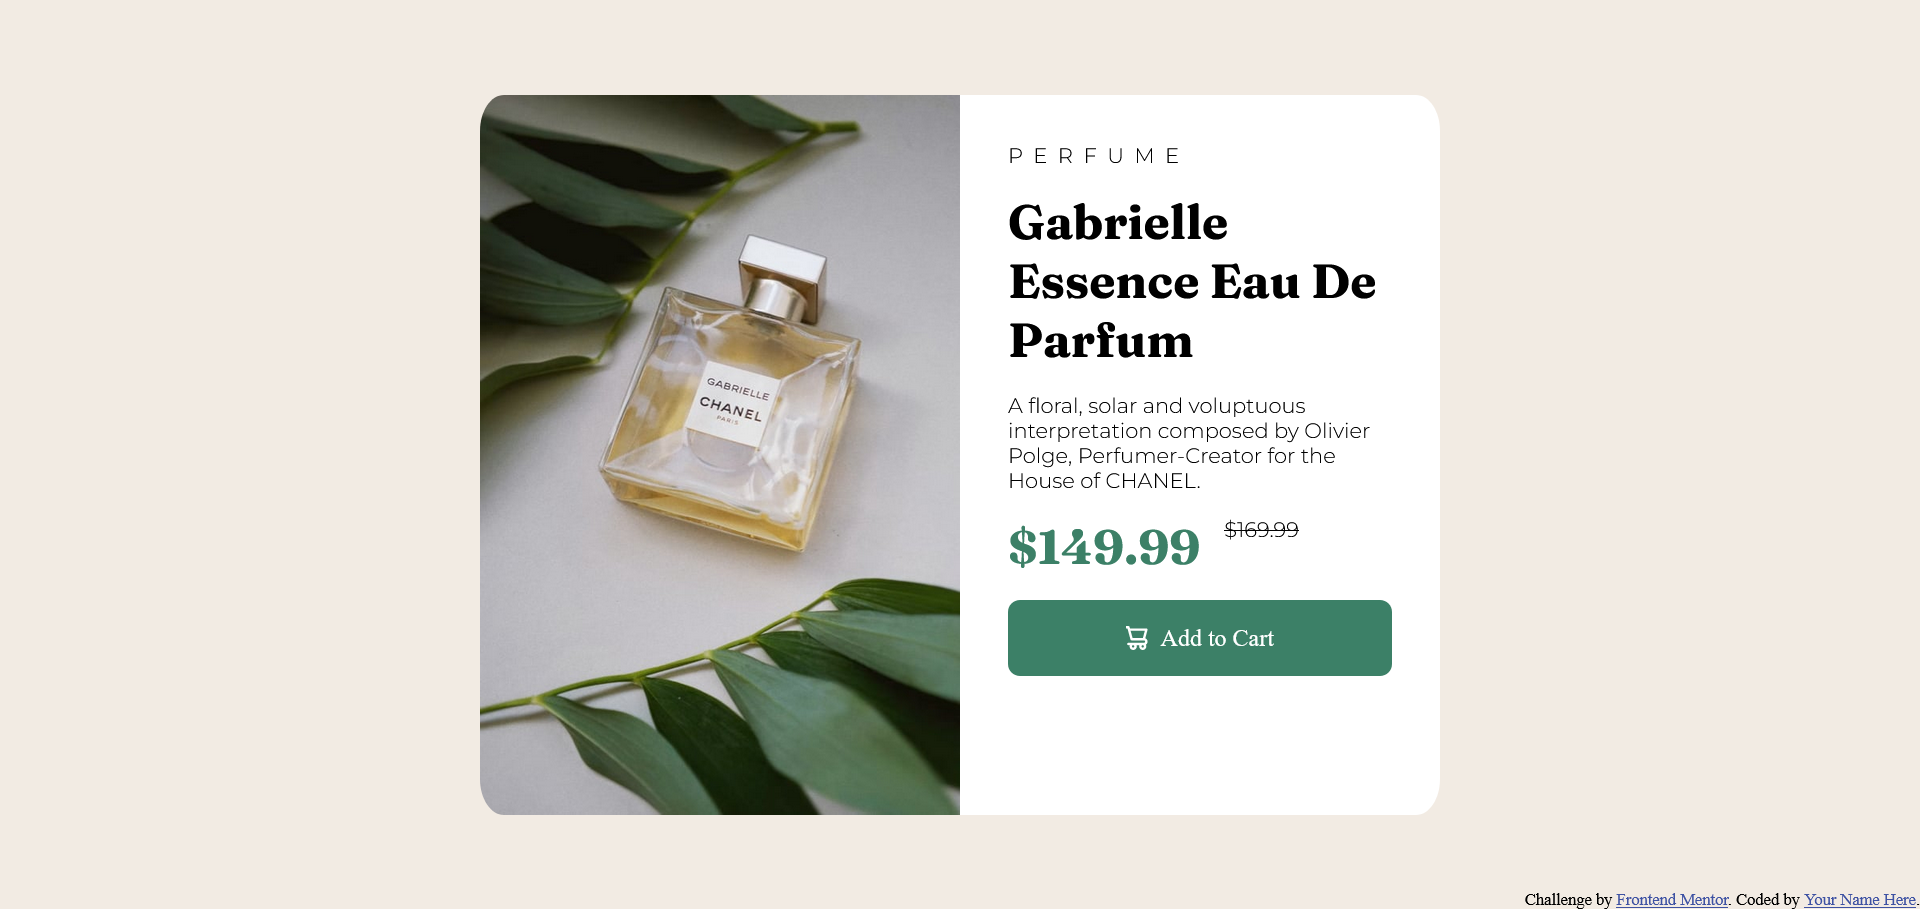
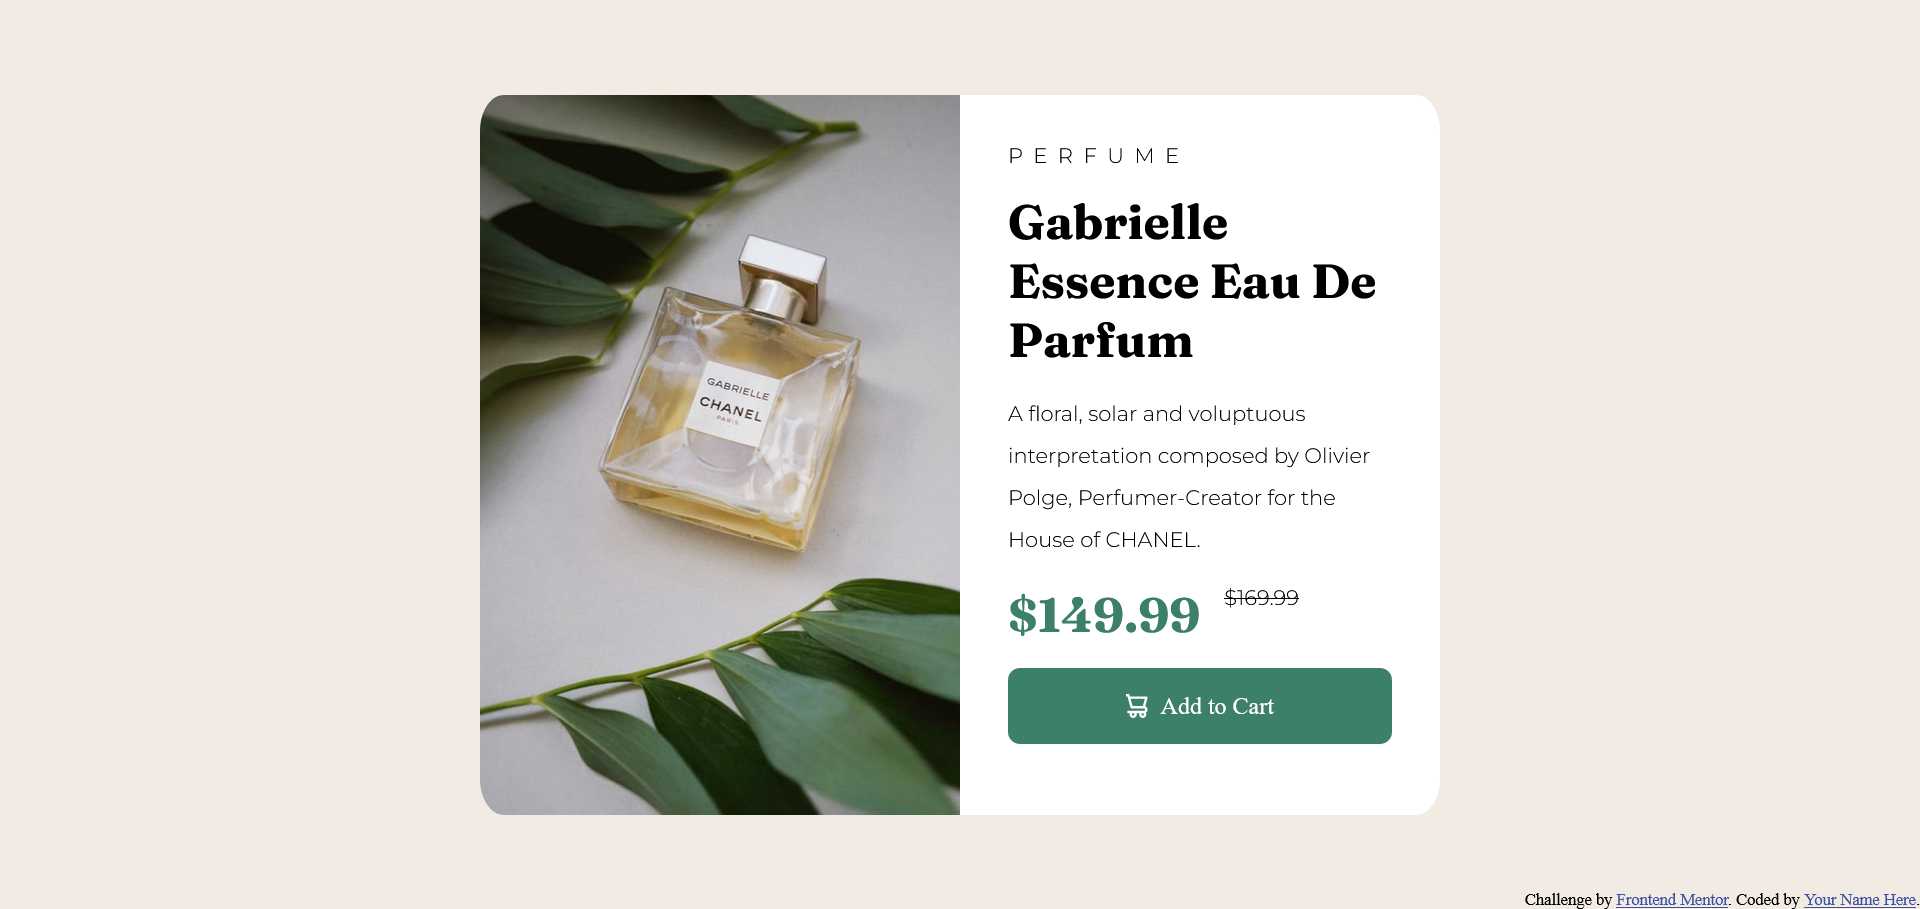
Small style changes

Changed region(s): [[0.5, 0.6469, 0.75, 0.8317], [0.5312, 0.4312, 0.7188, 0.5853], [0.5, 0.5853, 0.625, 0.6161]]

diff --git a/index.html b/index.html
@@ -36,7 +36,7 @@
         <p id="old-price">$169.99</p>
       </div>
 
-      <button id="Cart Button">
+      <button id="Cart-Button">
         <svg width="15" height="16" xmlns="http://www.w3.org/2000/svg"><path d="M14.383 10.388a2.397 2.397 0 0 0-1.518-2.222l1.494-5.593a.8.8 0 0 0-.144-.695.8.8 0 0 0-.631-.28H2.637L2.373.591A.8.8 0 0 0 1.598 0H0v1.598h.983l1.982 7.4a.8.8 0 0 0 .799.59h8.222a.8.8 0 0 1 0 1.599H1.598a.8.8 0 1 0 0 1.598h.943a2.397 2.397 0 1 0 4.507 0h1.885a2.397 2.397 0 1 0 4.331-.376 2.397 2.397 0 0 0 1.12-2.021ZM11.26 7.99H4.395L3.068 3.196h9.477L11.26 7.991Zm-6.465 6.392a.8.8 0 1 1 0-1.598.8.8 0 0 1 0 1.598Zm6.393 0a.8.8 0 1 1 0-1.598.8.8 0 0 1 0 1.598Z" fill="#FFF"/></svg> 
         Add to Cart</button>                 
     </div>

diff --git a/index.css b/index.css
@@ -115,6 +115,10 @@ img{
 
 }
 
+#Description{
+    line-height: 2em;
+}
+
 #sale{
     color: var(--Darkcyan);
     font-family: var(--main_font);
